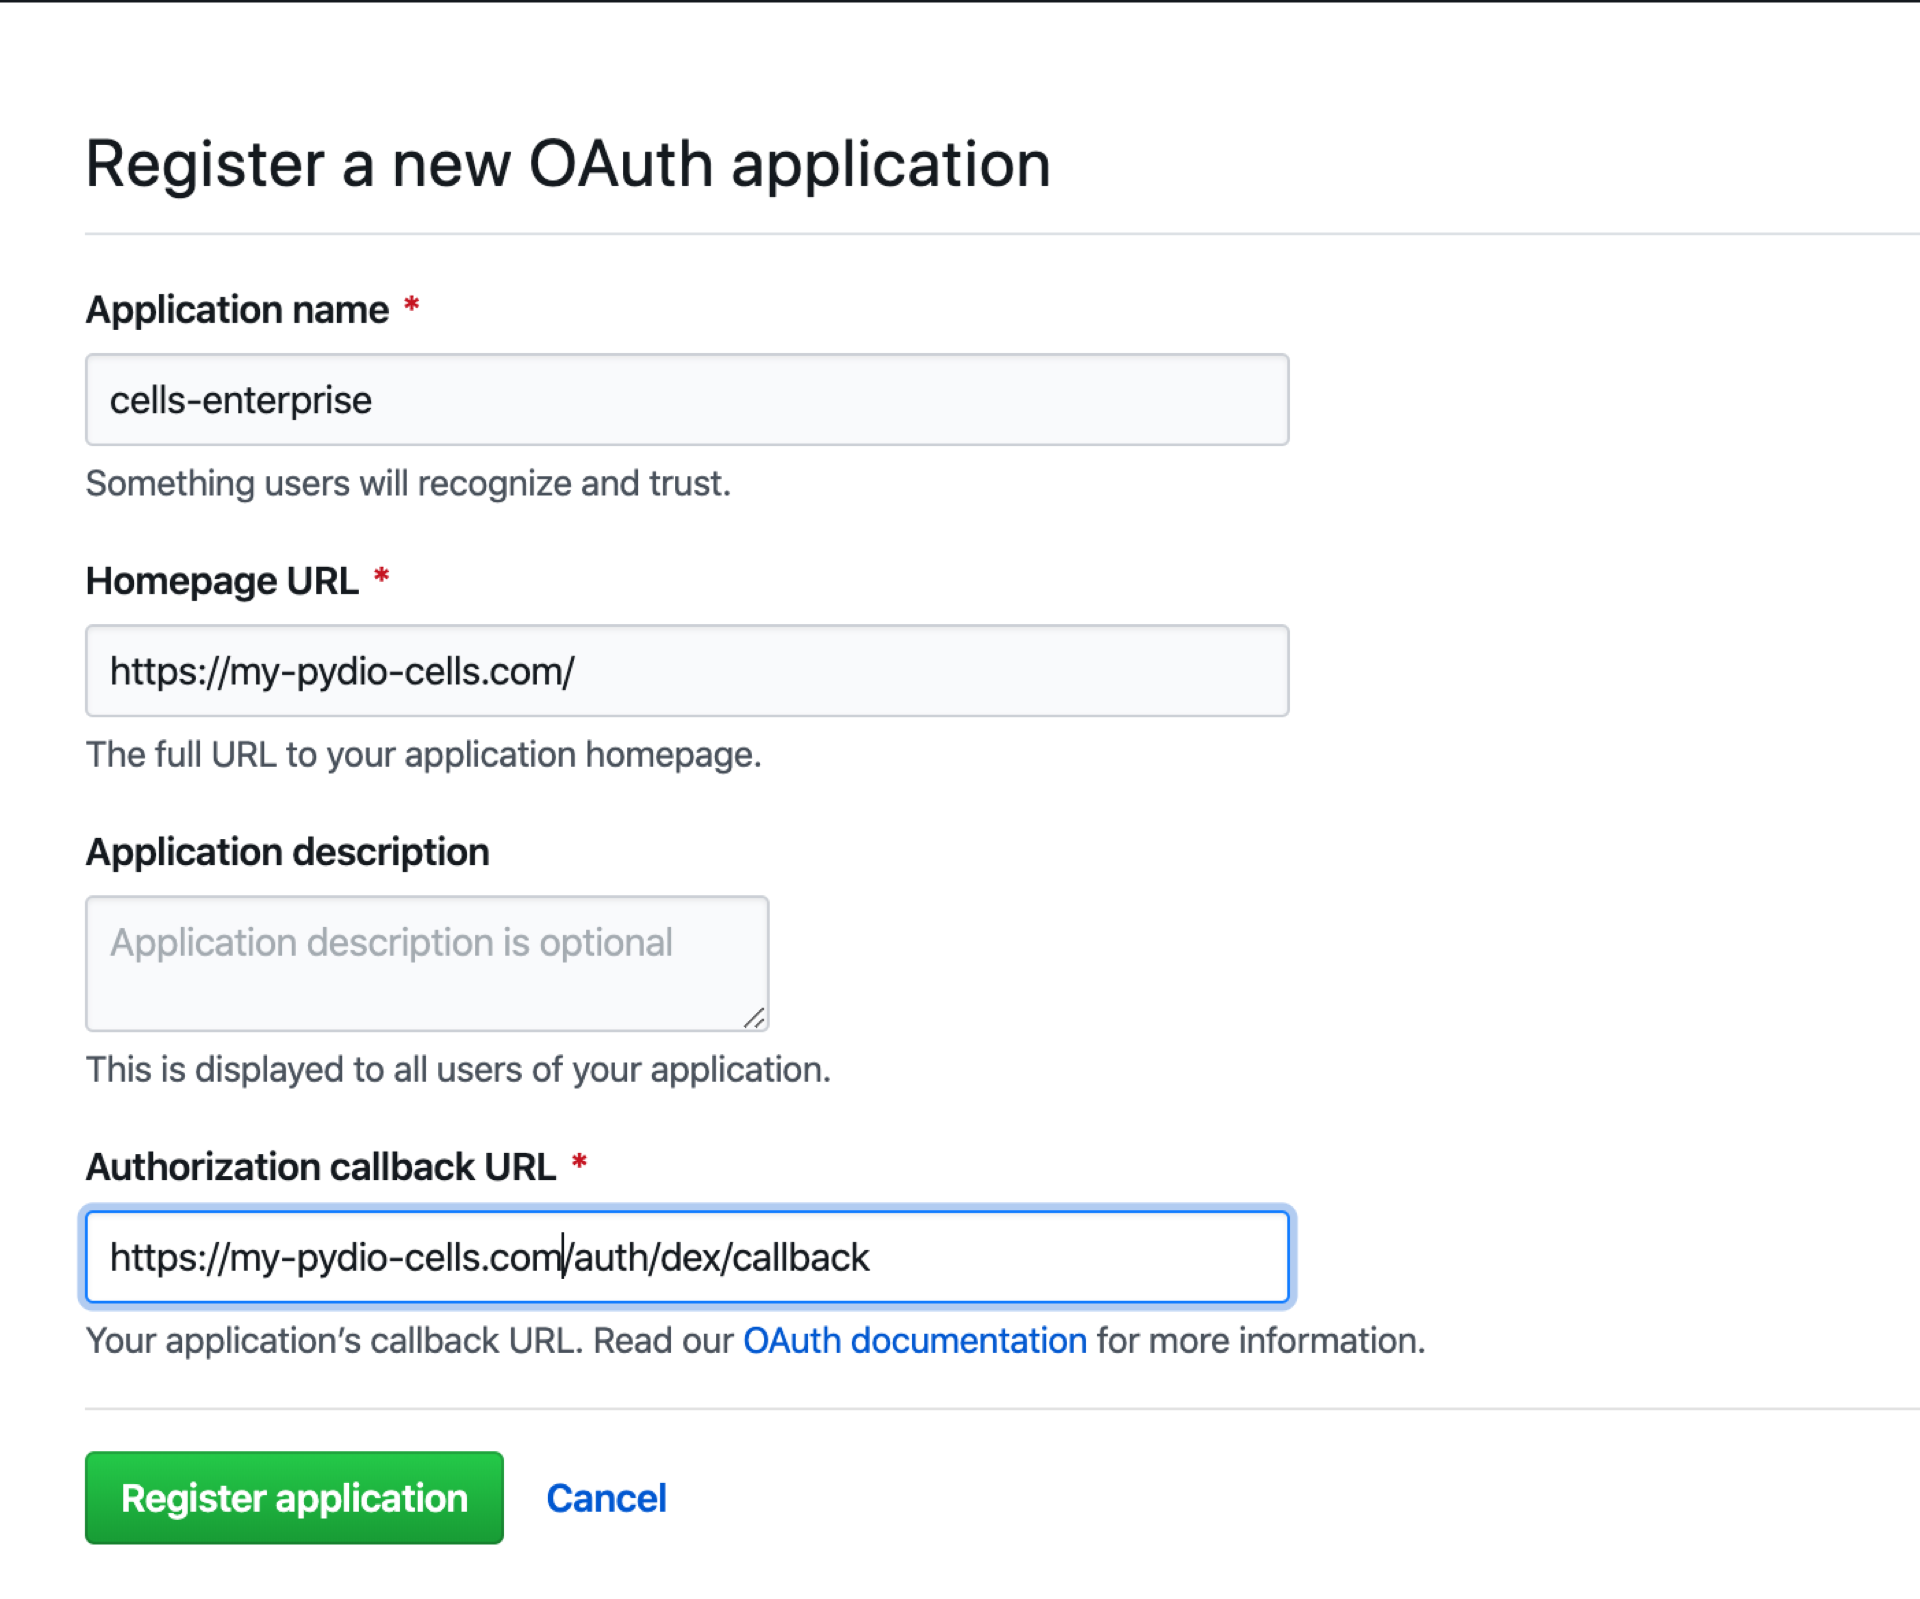
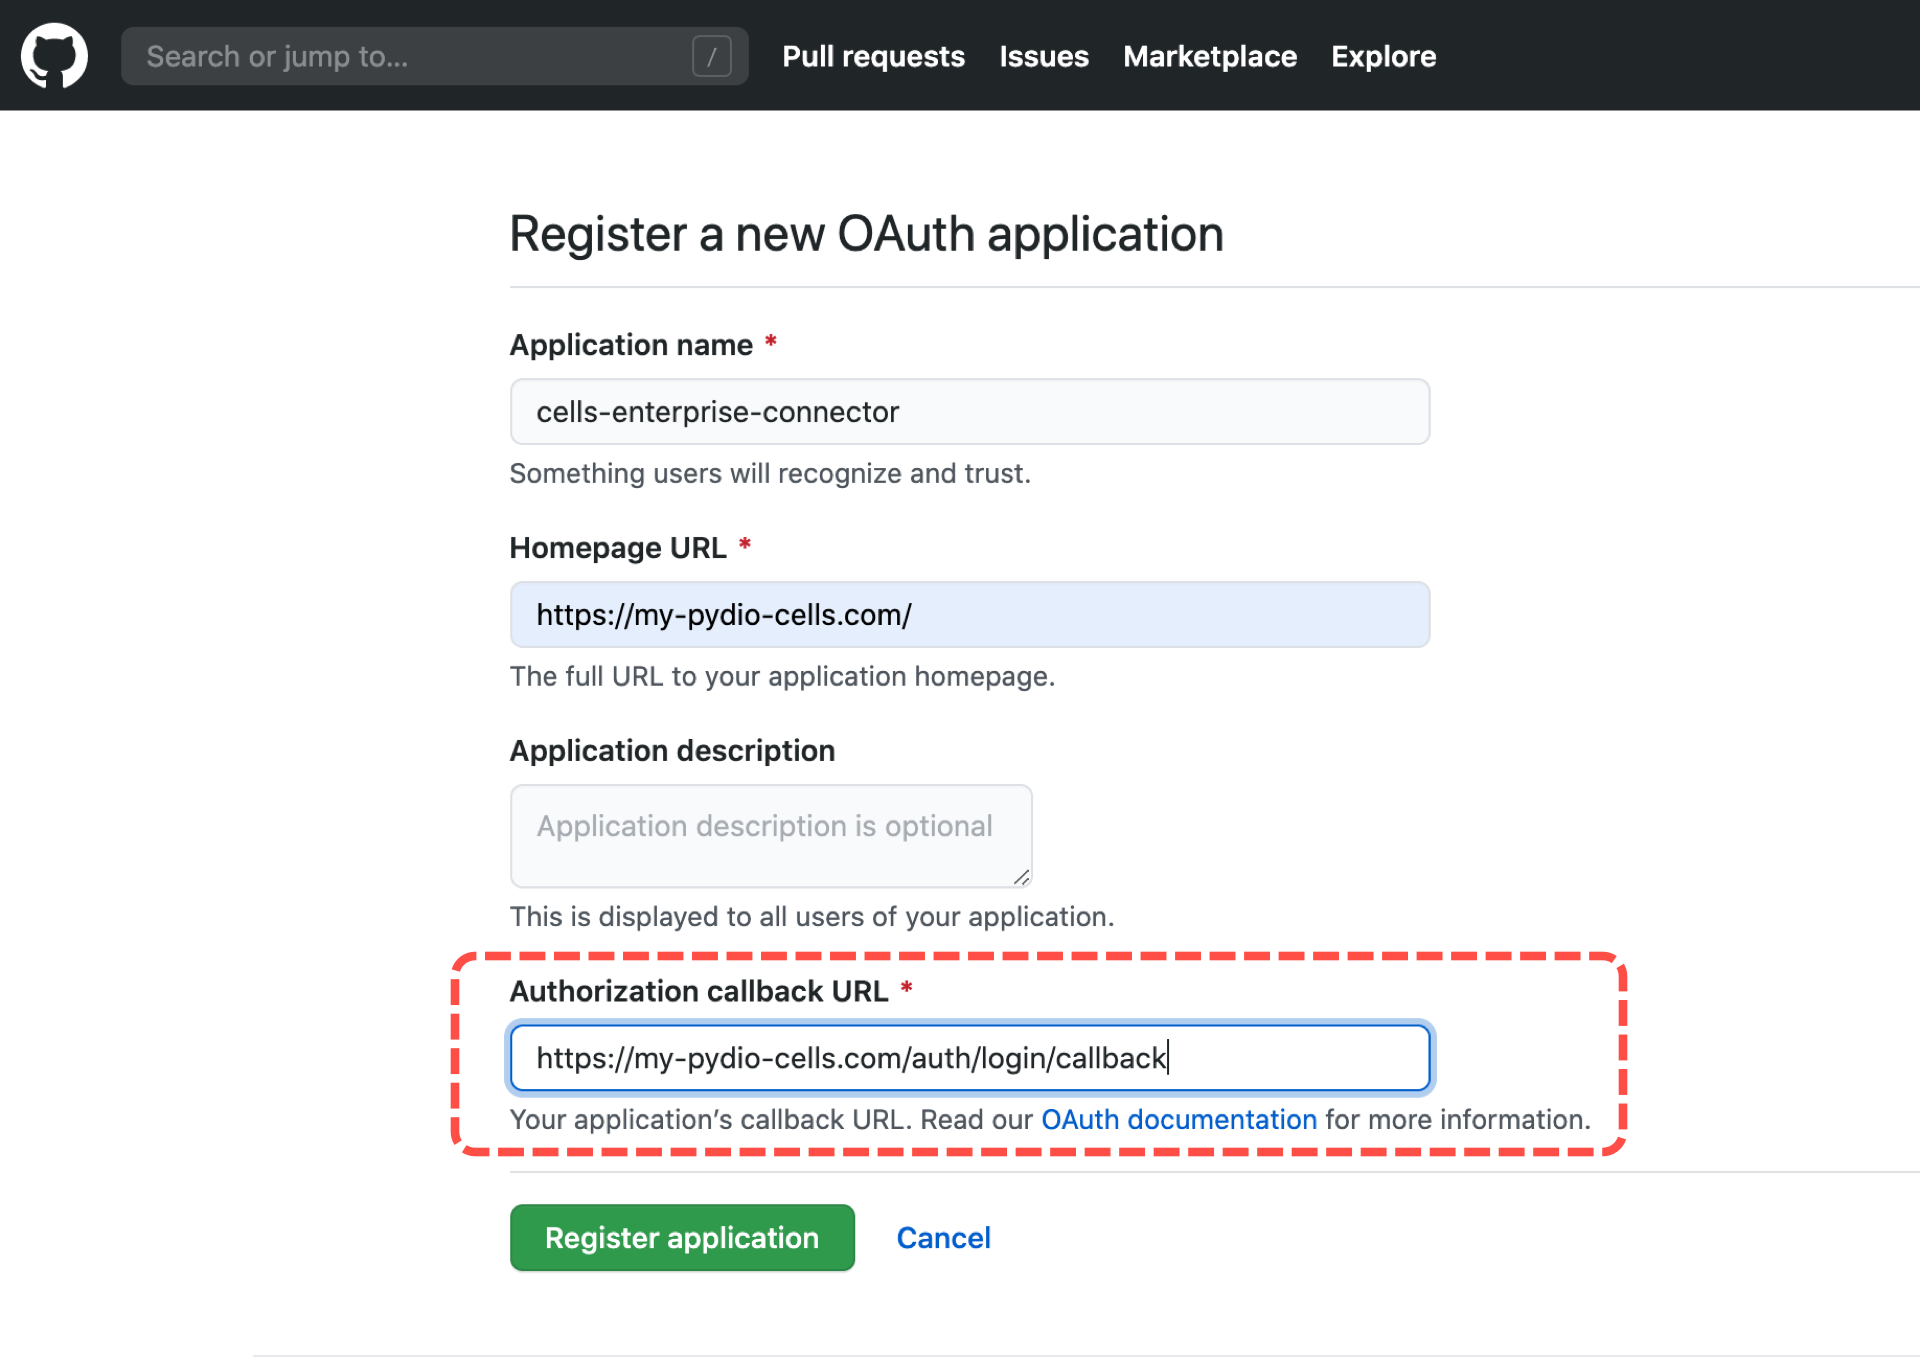
removed all dex mentions and updated

diff --git a/oidc_aws_cognito.md b/oidc_aws_cognito.md
@@ -18,7 +18,7 @@ Go to `General Settings > App Clients` menu to create a new app client. Choose a
 
 Once it is created, use "Show Details" button to display the **App client id** and **App Client secret** fields : these values will be required when configuring the connector on the Cells side.
 
-Now go to `App Integration > App client settings` in the left-hand menu. Make sure that your new App client is enabled for all Identity Providers, and set up the Callback URL pointing to `https://local.pydio/auth/dex/callback`, and logout URL to `https://local.pydio/logout`.
+Now go to `App Integration > App client settings` in the left-hand menu. Make sure that your new App client is enabled for all Identity Providers, and set up the Callback URL pointing to `https://local.pydio/auth/login/callback`, and logout URL to `https://local.pydio/logout`.
 
 Under the OAuth2.0 section, check the boxes as shown on the image below.
 
@@ -40,7 +40,7 @@ Here you will need the connection data gathered at the previous step :
 
  * Canonical URL of the provider : use https://cognito-idp.{REGION_ID}.amazonaws.com/{POOL_ID}. That should look like https://cognito-idp.eu-west-2.amazonaws.com/eu-west-2_KcLwCelr7
  * Connector Authentication Values: use the Client ID / Client Secret of the Cognito Client App.
- * Redirection URL, use `https://local.pydio/auth/dex/callback`. Make sure that it exactly matches the Callback URL used in the cognito configuration.
+ * Redirection URL, use `https://local.pydio/auth/login/callback`. Make sure that it exactly matches the Callback URL used in the cognito configuration.
  
  [:image:connectors/cognito-06-cells-connector-urls.png]
  

diff --git a/oidc_google.md b/oidc_google.md
@@ -48,7 +48,7 @@ And set the following fields:
 Last step, name your app (make sure to remember your **ID** and **Secret**) :
 
 - **Authorized JavaScript origins:** Add your Pydio Cells url.
-- **Authorized redirect URIs**: add a redirect url such as `https://my-cells.com/auth/login/google/callback`, add at the end of your Pydio Cells URL **/auth/dex/callback** (this is the endpoint).
+- **Authorized redirect URIs**: add a redirect url such as `https://my-cells.com/auth/login/google/callback`, add at the end of your Pydio Cells URL **/auth/login/callback** (this is the endpoint).
   
 [:image:cells/authentication/sso_with_oauth2/google/create_client_id_2.png]
 

diff --git a/oidc_github.md b/oidc_github.md
@@ -8,7 +8,7 @@ Create a New OAuth Application on **Github**,
 
 - **Application name:** Name your application
 - **Homepage URL:** Your pydio Cells URL (main page)
-- **Authorization callback URL:** http(s)://your-pydio**/auth/dex/callback** (the endpoint is the immutable part)
+- **Authorization callback URL:** http(s)://your-pydio**/auth/login/callback** (the endpoint is the immutable part)
 
 [:image:cells/authentication/sso_with_oauth2/github/github_create_app_2.png]
 

diff --git a/oidc_simple_saml_php.md b/oidc_simple_saml_php.md
@@ -17,7 +17,7 @@ metadata/saml20-sp-remote.php
 /*
  * Example SimpleSAMLphp SAML 2.0 SP
  */
-$metadata['https://cells.lab.py/auth/dex/callback'] = [
+$metadata['https://cells.lab.py/auth/login/callback'] = [
     'AssertionConsumerService' => '<your_callback_url>',
     'SingleLogoutService' => '<your_logout_url>,
 ];
